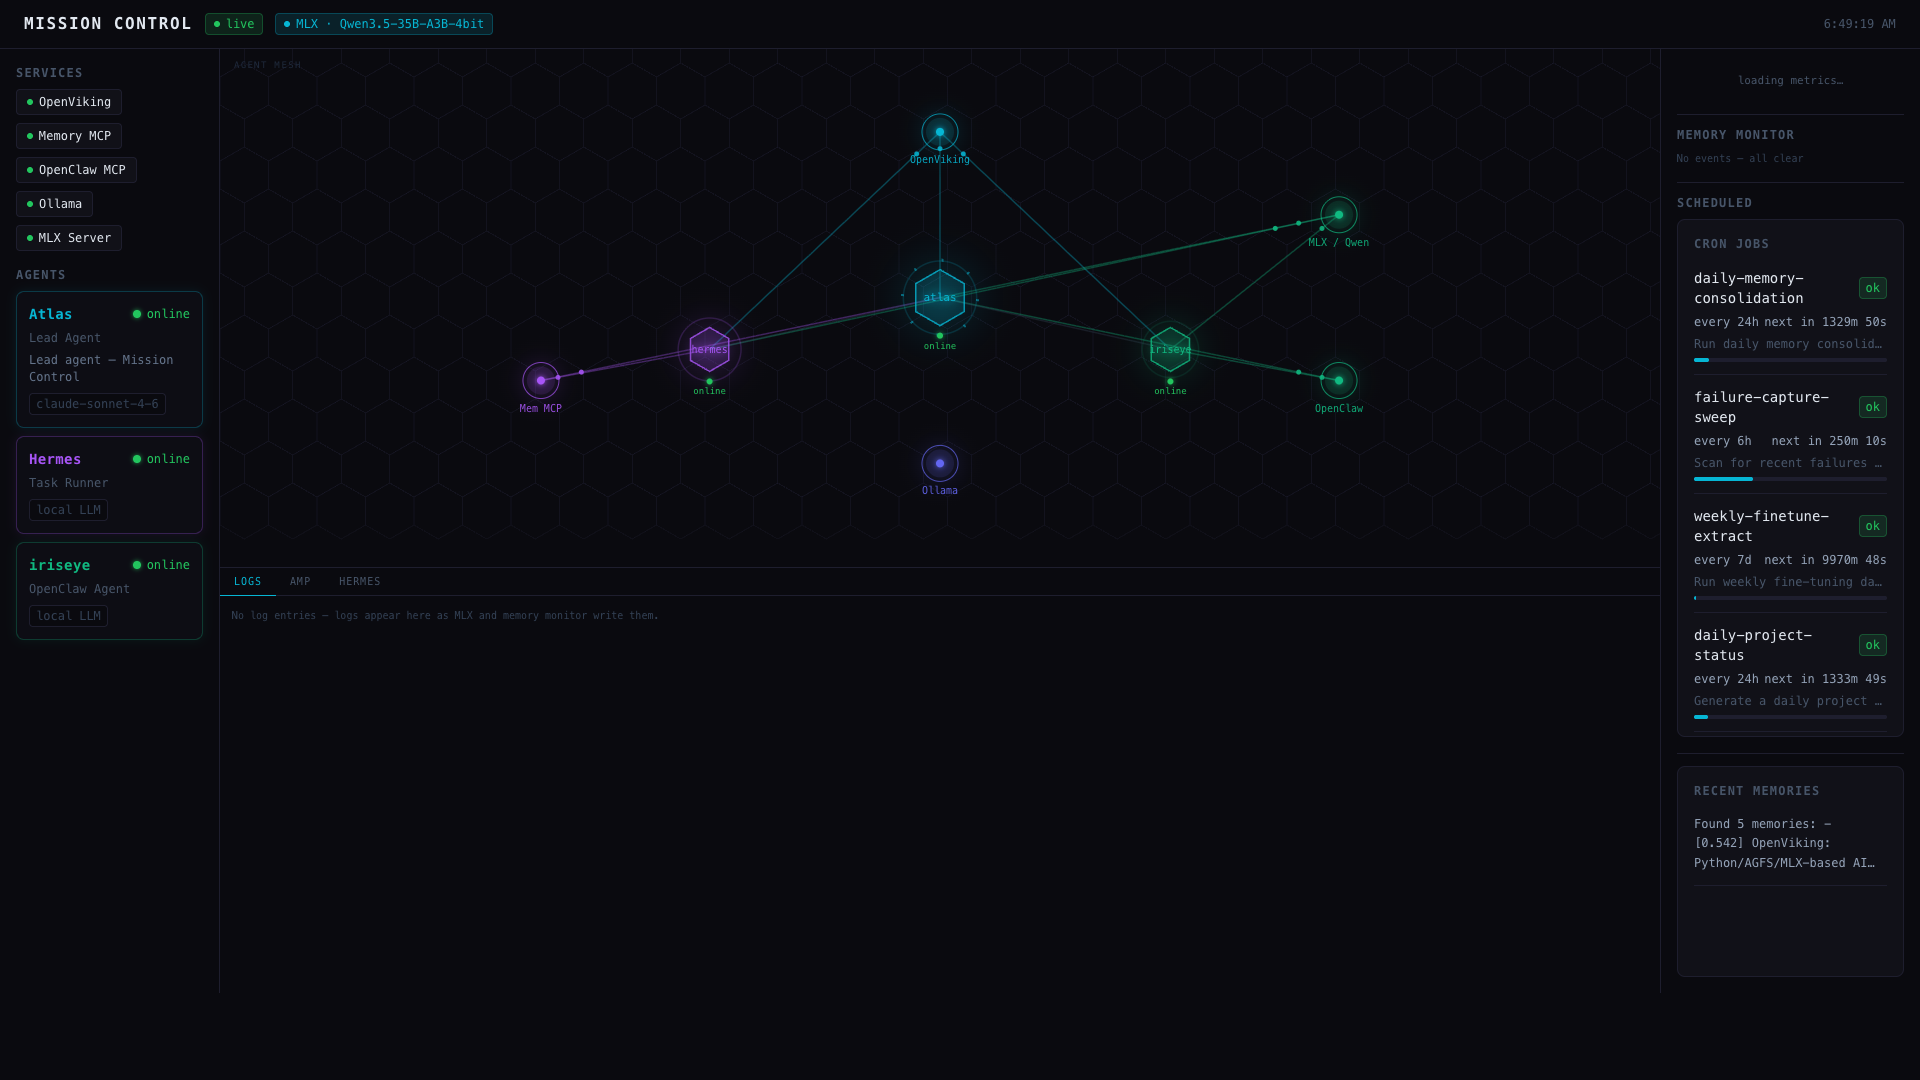
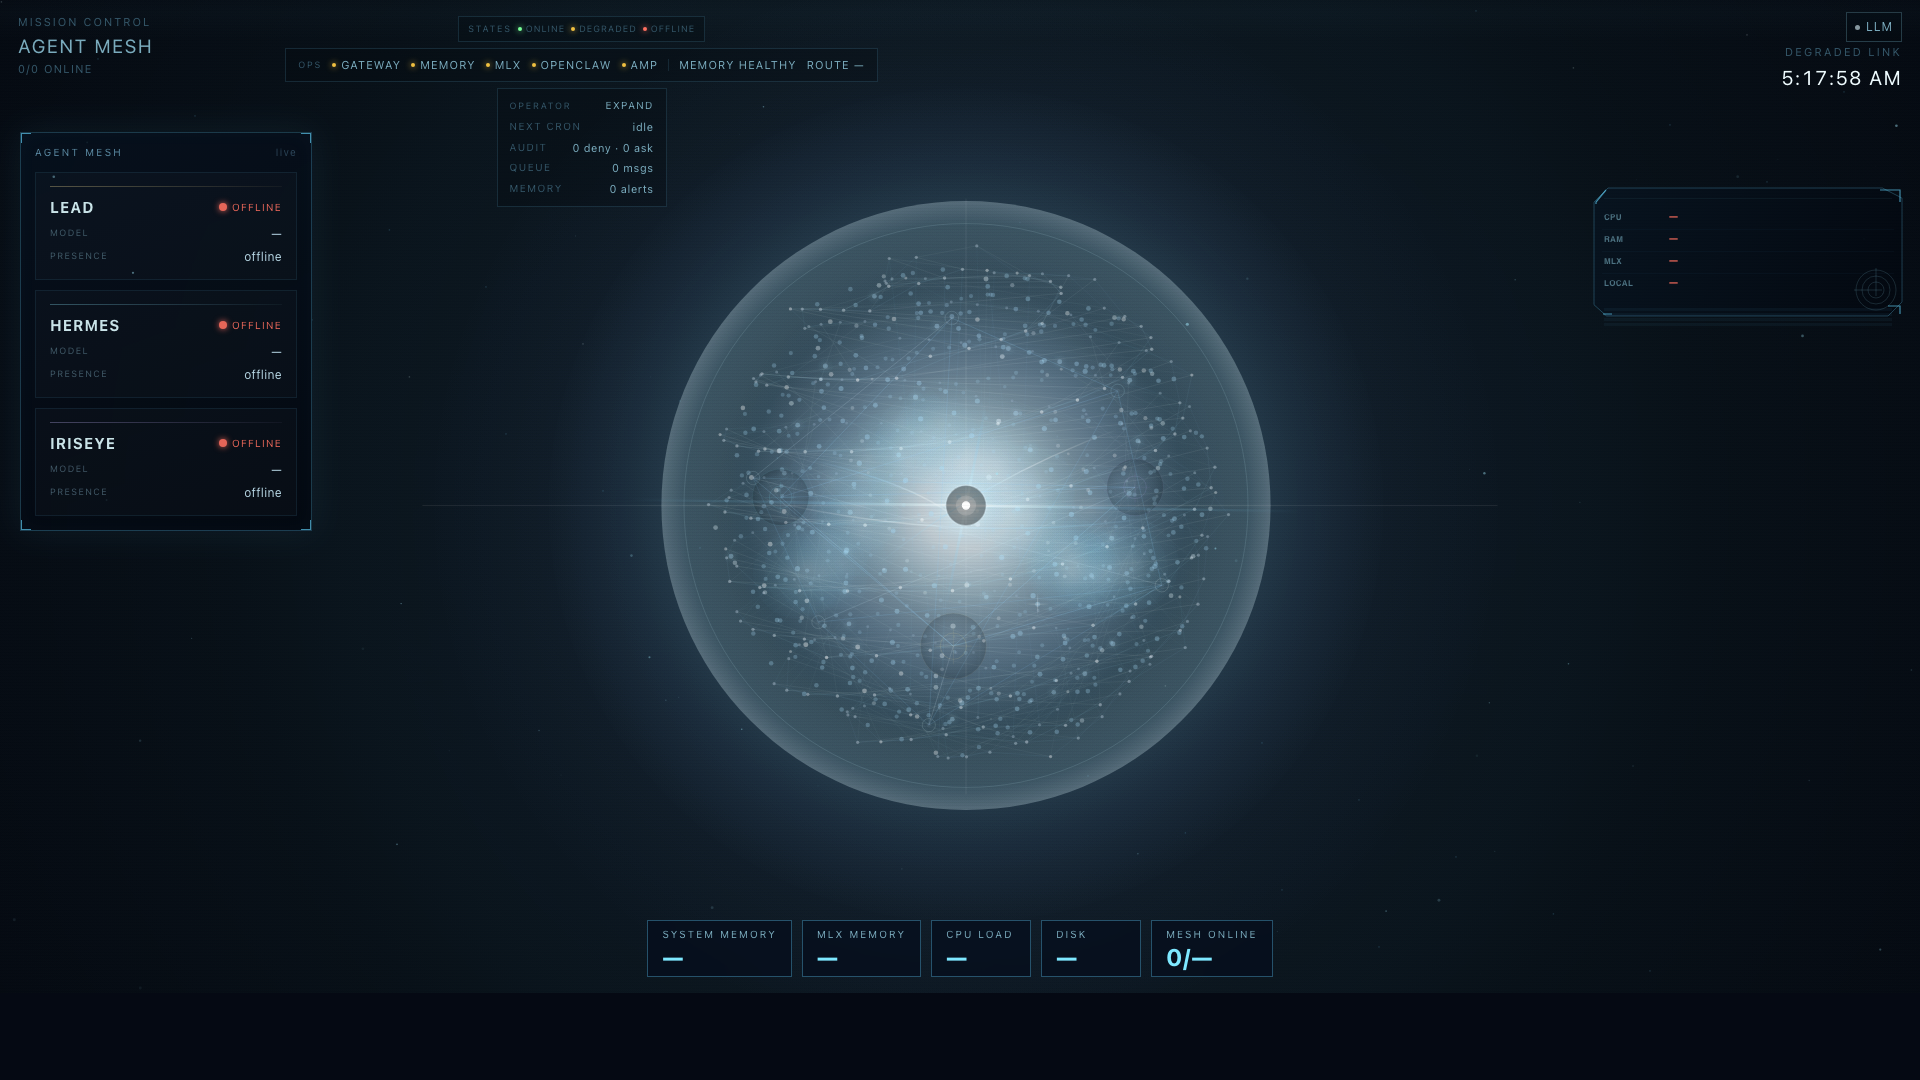
Refresh README screenshot

diff --git a/README.md b/README.md
@@ -10,31 +10,28 @@ Real-time dashboard for multi-agent AI systems — built for the **Claude Code +
 
 ## What it shows
 
-Most local AI setups are invisible — agents running in terminals, logs scattered, no idea what's happening across the mesh. This fixes that.
+Most local AI setups are invisible. Agents run in separate terminals, routing decisions disappear into logs, memory health is hard to interpret, and operator state gets scattered across tools. This dashboard pulls that into one live surface.
 
-- **KPI strip** — live Agents Online, MLX server status, system RAM, AMP queue depth, CPU — always visible at the top
-- **Agent status** — every agent (Atlas, Hermes, iriseye) with current state, pulsing dot, color-coded
-- **Service pills** — OpenViking, MLX, MemMCP, OpenClaw, Ollama — up/down at a glance
-- **Mesh graph** — animated canvas topology: hexagonal agent nodes, radial service nodes, animated pulse dots on active edges
-- **AMP events feed** — live routing log from Hermes + iriseye bridges (route=mlx, route=hermes, reply sent)
-- **AMP inbox** — messages in/out of AI Maestro
-- **MLX tab** — arc gauge showing MLX RAM pressure, model stats, PID, inference engine
-- **Memory monitor** — OpenViking recall activity
-- **Cron/schedule** — Hermes scheduled tasks with progress bars
-- **Mesh insights** — cross-agent pattern analysis
-- **Activity feed** — unified event stream
+- **Permanent agent dock** — Lead, Hermes, and IrisEye stay pinned with status, model, presence, runtime, and current task
+- **Cinematic mesh sphere** — animated agent/service topology with active-node motion, routing emphasis, and memory-aware link states
+- **Ops strip + alerts** — live service health, memory mode, route target, and highest-priority operator alert at a glance
+- **Operator utility block** — cron, audit, queue, and memory alert counts without leaving the main view
+- **System panel** — CPU, RAM, MLX, and local-use telemetry in the canvas HUD
+- **Bottom telemetry rail** — quick system totals for memory, MLX load, CPU load, disk, and mesh availability
+- **Memory route intelligence** — backend memory summary, cause ranking, and routing impact surfaced directly in the dashboard
+- **Clickable summaries** — operator chips and service indicators focus the matching service or agent in the mesh
 
 ---
 
 ## Design
 
-Premium dark-mode terminal aesthetic. No scroll, no hidden panels.
+Premium dark-mode terminal aesthetic with a mesh-first operator layout. No cloud dependency, no tab hunting, no fake glassmorphism.
 
-- **Full-bleed layout** — header → KPI strip → body, zero overflow
-- **Vertical tab rail** — right sidebar with single-click tabs: MLX / Memory / Schedule / Insights / Activity
-- **Square mesh graph viewport** — `Math.min(W, H) × 0.92` ensures the graph never stretches regardless of window shape
-- **Unified color palette** — `#08080f` background, cyan/purple/green/yellow/red accent system consistent across every component
-- **No duplicates** — CPU and RAM in KPI strip only; MLX tab focuses on inference-specific metrics
+- **Mesh-first composition** — the sphere is the product center, not a decorative background
+- **Permanent operator dock** — agent state stays visible instead of hiding behind modal panels or tabs
+- **Responsive HUD clearance** — the sphere respects the top operator stack and side dock instead of overlapping them
+- **Unified accent language** — warm gold, cyan, violet, amber, and red are used consistently for identity and state
+- **State-aware motion** — node glow, reticles, and memory-path coloring respond to live routing and degradation causes
 
 ---
 
